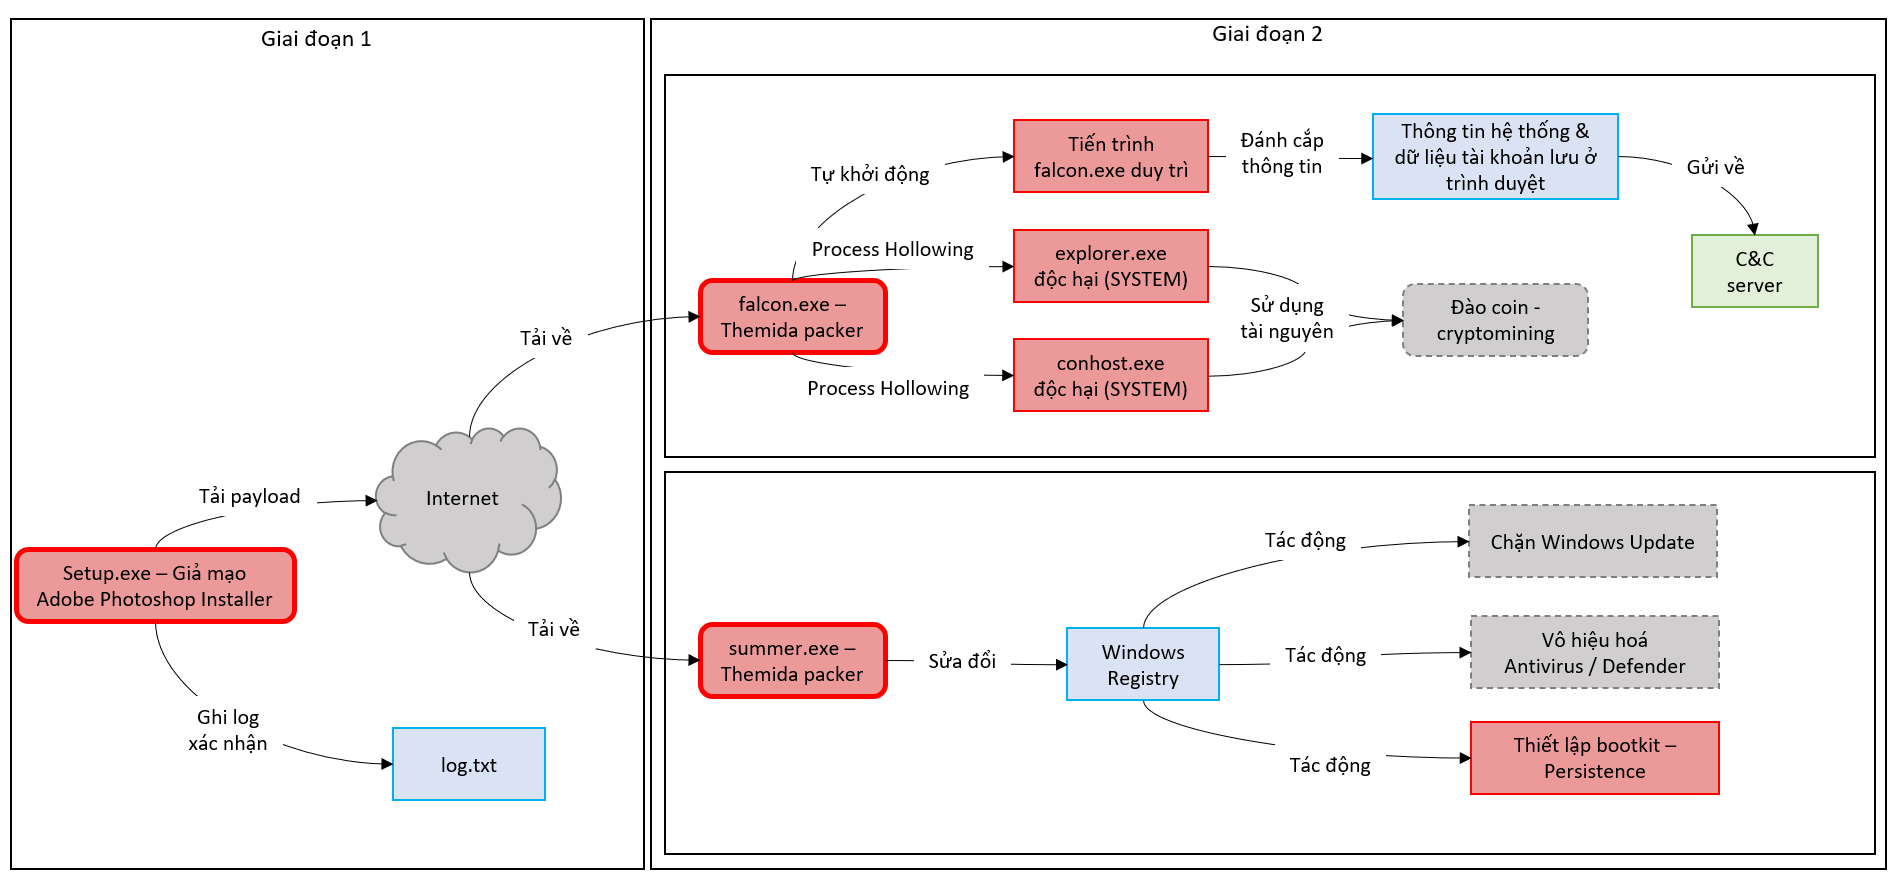
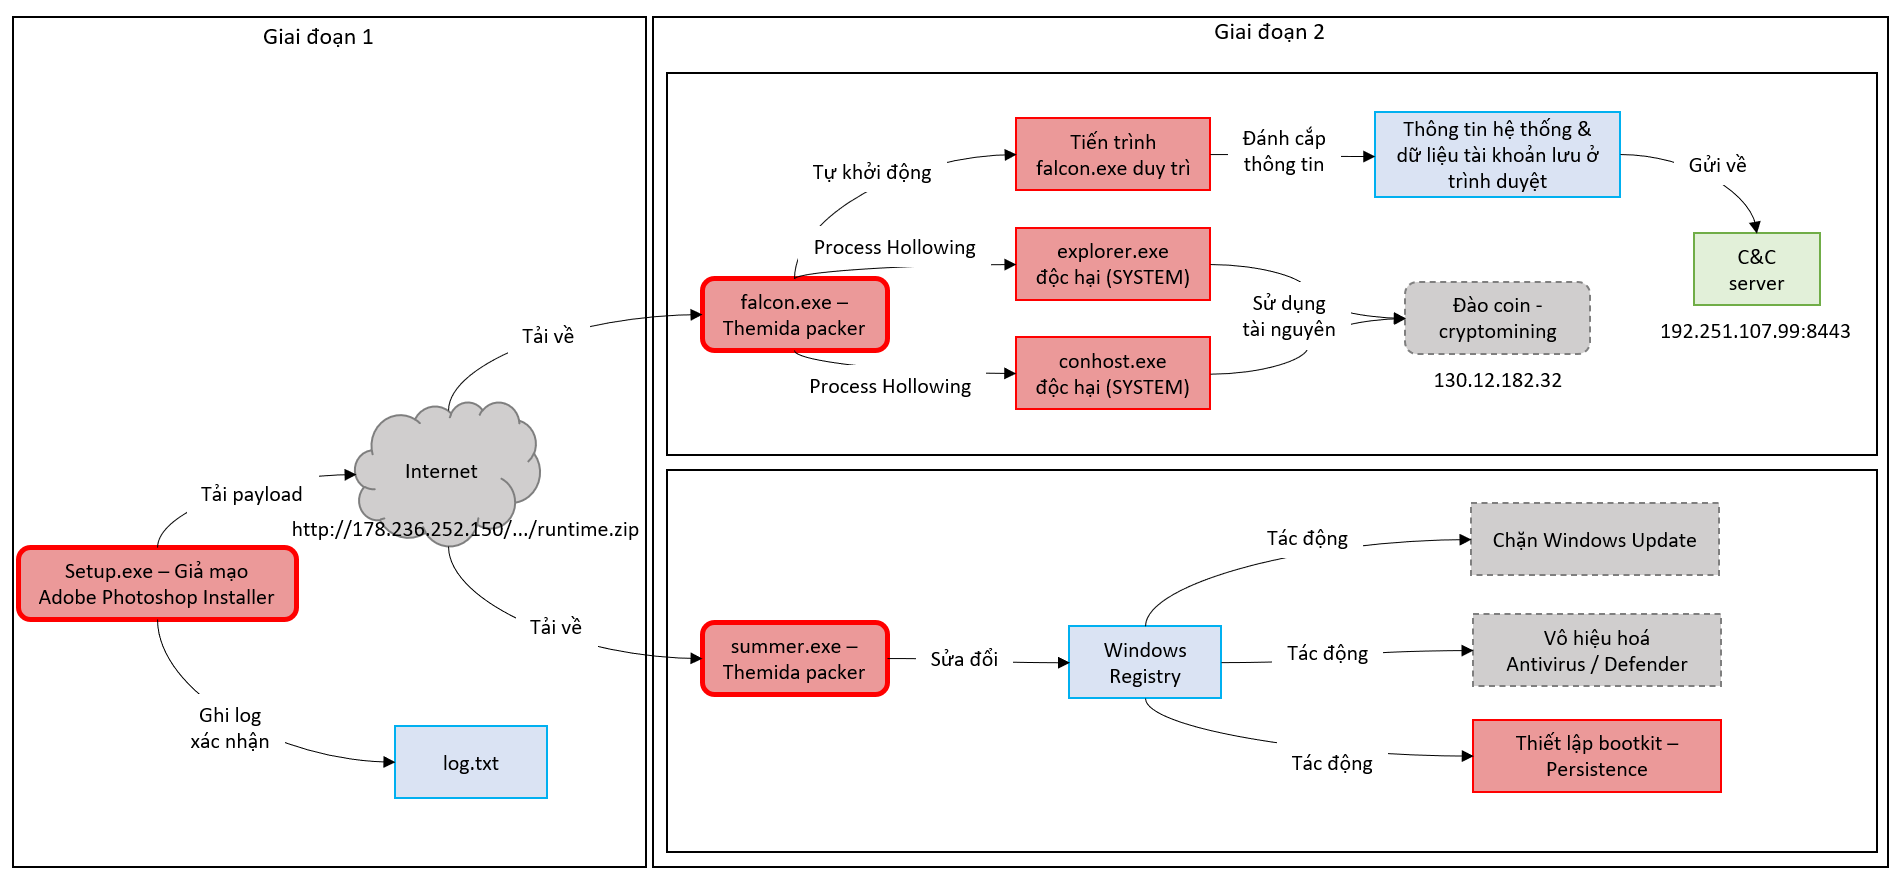
Modify chart of attack chain & Add some IP used

diff --git a/README.md b/README.md
@@ -219,7 +219,7 @@ Với file `updater.exe` và file `dispute.exe` thì sau khi được giải né
 
     ![alt text](images/trojan047.png)
 
-  - Thứ nhất, string hardcode trong ảnh dẫn tới 1 nghi ngờ chương trình này có kết nối tới C2 server để trao đổi dữ liệu. Thực tế khi mình kiểm tra network của tiến trình này thì phát hiện nó thực sự có kết nối tới địa chỉ IP hardcode trên:
+  - Thứ nhất, string hardcode trong ảnh dẫn tới 1 nghi ngờ chương trình này có kết nối tới C2 server để trao đổi dữ liệu (IP: `192.251.107.99:8443`). Thực tế khi mình kiểm tra network của tiến trình này thì phát hiện nó thực sự có kết nối tới địa chỉ IP hardcode trên:
 
     ![alt text](images/trojan054.png)
 
@@ -286,7 +286,7 @@ Với file `updater.exe` và file `dispute.exe` thì sau khi được giải né
 
[1 lines of base64/hex data omitted]
 
-- Từ kết quả DIE có thể thấy rõ chương trình dump ra là 1 chương trình đã bị pack bởi UPX, tuy nhiên đây là một chương trình được dump từ trong tiến trình nên đã có ít nhiều những sự thay đổi trong quá trình thực thi nên rất khó để có thể phân tích được hành vi của nó. Tuy nhiên, khi sử dụng các công cụ giám sát tiến trình khác, mình có thể thấy được hành vi của nó là có kết nối tới 1 địa chỉ IP bên ngoài (130.12.182.32):
+- Từ kết quả DIE có thể thấy rõ chương trình dump ra là 1 chương trình đã bị pack bởi UPX, tuy nhiên đây là một chương trình được dump từ trong tiến trình nên đã có ít nhiều những sự thay đổi trong quá trình thực thi nên rất khó để có thể phân tích được hành vi của nó. Tuy nhiên, khi sử dụng các công cụ giám sát tiến trình khác, mình có thể thấy được hành vi của nó là có kết nối tới 1 địa chỉ IP bên ngoài (`130.12.182.32`):
 
   ![alt text](images/trojan064.png)
 
@@ -317,7 +317,7 @@ Với file `updater.exe` và file `dispute.exe` thì sau khi được giải né
 Tóm tắt quá trình tấn công:
 
   ![alt text](images/trojan069.png)
-  
+
   - Nạn nhân chạy file `Setup.exe` giả danh công cụ cài đặt Adobe Photoshop.
   - `Setup.exe` thực chất lại giả danh chương trình dựng web js là `node.exe` và hành vi thực sự của nó là tải 2 file độc hại `falcon.exe` và `summer.exe`. Giai đoạn này có ghi lại log để xác nhận tải và giải nén thành công trong file `log.txt`.
   - 2 file được tải về bị pack bởi Themida nên không thể trực tiếp debug trên máy ảo VMWare hay sử dụng debugger như IDA Pro.
